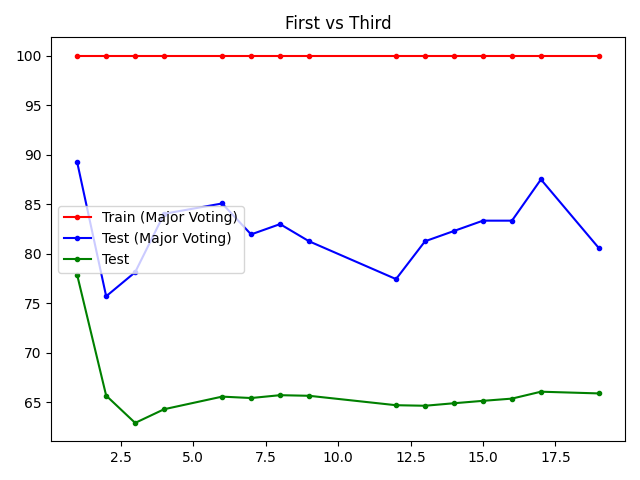
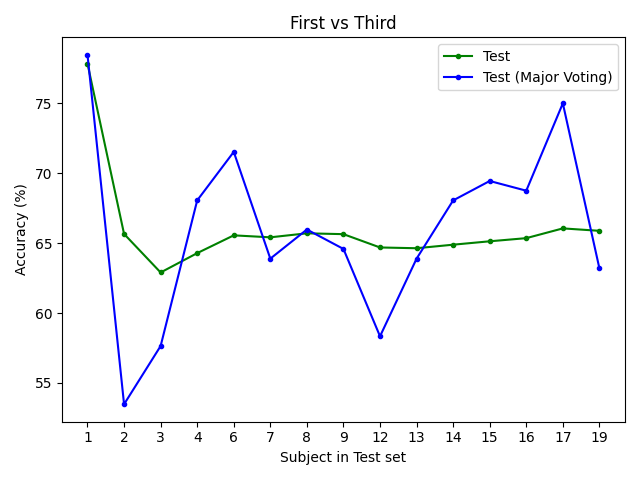
Reading accuracies updated

diff --git a/plot_test_acc.py b/plot_test_acc.py
@@ -1,5 +1,4 @@
 import os
-import csv
 import matplotlib
 import matplotlib.pyplot as plt
 from utils.config import Config
@@ -19,6 +18,7 @@ test_acc_major  = {}
 valid_acc_major = {}
 train_acc_major = {}
 
+'''
 for train_idx in config.all_subjects:
     with open(filePath+"test_results_"+str(train_idx)+".0.csv", newline='') as f:
            data = list(csv.reader(f))
@@ -39,15 +39,13 @@ if config.apply_valid_set:
 
 
 plt.figure(0)
-plt.plot(list(train_acc_major.keys()), list(train_acc_major.values()), '-r.', label='Train (Major Voting)')
-plt.plot(list(test_acc_major.keys()),  list(test_acc_major.values()),  '-b.', label='Test (Major Voting)')
+plt.plot([str(key_val) for key_val in train_acc_major.keys()], list(train_acc_major.values()), '-r.', label='Train (Major Voting)')
+plt.plot([str(key_val) for key_val in test_acc_major.keys()],  list(test_acc_major.values()),  '-b.', label='Test (Major Voting)')
 if config.apply_valid_set:
-   plt.plot(list(valid_acc_major.keys()), list(valid_acc_major.values()), '-g.', label='Valid')
-#if config.realVSFake:
-#   plt.title("First vs Third")
-#plt.legend()
-#plt.tight_layout()
-#plt.savefig('./Figs/Accs_major.png')
+   plt.plot([str(key_val) for key_val in valid_acc_major.keys()], list(valid_acc_major.values()), '-g.', label='Valid')
+
+print(f"Test Acc Major: {test_acc_major}")
+'''
 
 
 filePath = './csv_out/'
@@ -55,7 +53,7 @@ filePath = './csv_out/'
 acc     = {}
 correct = 0
 total   = 0
-#plt.figure(1)
+plt.figure(1)
 
 for i, dataset in enumerate(datasets):
     correct = 0
@@ -66,14 +64,51 @@ for i, dataset in enumerate(datasets):
         correct += len(correct_pred)
         total   += len(results['label'])
         acc[train_idx] = correct/total*100.
-    print(list(acc.keys()))
-    plt.plot(list(acc.keys()), list(acc.values()), color_codes[i], label=dataset.capitalize())
+    plt.plot([str(key_val) for key_val in acc.keys()], list(acc.values()), color_codes[i], label=dataset.capitalize())
 if config.realVSFake:
    plt.title("First vs Third")
+print(acc.keys())
+print([str(key_val) for key_val in acc.keys()])
+
+
+
+print(f"Test Acc: {acc}")
+
+
+
+for i, dataset in enumerate(datasets):
+    correct = 0
+    total   = 0
+    for sub in config.all_subjects:
+        df = pd.read_csv(filePath+dataset+"_"+str(sub)+".0.csv", encoding='utf-8')
+        trials = df['trial'].unique()
+        labels = df['label'].unique()
+        conditions = df['condition'].unique()
+        #print(f"Shapes: T:{len(trials)}, L:{len(labels)}, C:{len(conditions)}")
+        correct = 0
+        total = 0
+        for tr in trials:
+            for condition in conditions:
+                rows = df[(df['subject'] == sub) & (df['trial'] == tr) & (df['condition'] == condition)]
+                correct_pred = rows[rows['label'] == rows['prediction']]
+                if len(correct_pred) >= config.threshold*len(rows['label']):
+                   correct += 1
+                total += 1
+        test_acc_major[sub] = 100.*correct/total
+
+plt.plot([str(key_val) for key_val in test_acc_major.keys()],  list(test_acc_major.values()),  '-b.', label='Test (Major Voting)')
+
+plt.xticks([str(key_val) for key_val in acc.keys()])
+plt.ylabel("Accuracy (%)")
+plt.xlabel("Subject in Test set")
 plt.legend()
 plt.tight_layout()
 plt.savefig('./Figs/Accs.png')
 
+import numpy as np
+print(acc)
+print(np.mean(list(acc.values())), np.std(list(acc.values())))
 
-
+print(test_acc_major)
+print(np.mean(list(test_acc_major.values())), np.std(list(test_acc_major.values())))
 

diff --git a/utils/utils.py b/utils/utils.py
@@ -90,13 +90,12 @@ def test_majority_voting(model, dataloader, config, name_str):
         with tqdm.tqdm(total=len(df)) as pbar:
            for sub in subjects:
                for tr in trials:
-                   for label in labels:
-                       for condition in conditions:
-                           rows = df[(df['subject'] == sub) & (df['trial'] == tr) & (df['label'] == label) & (df['condition'] == condition)]
-                           correct_pred = rows[rows['label'] == rows['prediction']]
-                           if len(correct_pred) >= config.threshold*len(rows['label']):
-                              correct += 1
-                           total += 1
+                   for condition in conditions:
+                       rows = df[(df['subject'] == sub) & (df['trial'] == tr) & (df['condition'] == condition)]
+                       correct_pred = rows[rows['label'] == rows['prediction']]
+                       if len(correct_pred) >= config.threshold*len(rows['label']):
+                          correct += 1
+                       total += 1
 
     print('Acc: {0:.3f} ({1}/{2})'.format(100.*correct/total, correct, total))
     return 100.*correct/total, subjects

diff --git a/utils/config.py b/utils/config.py
@@ -20,7 +20,7 @@ class Config:
 
           # Majority Voting Properties
           self.maj_vote    = True
-          self.threshold   = 0.6
+          self.threshold   = 0.5
 
           # Gaussian Transform
           self.apply_gauss = False
